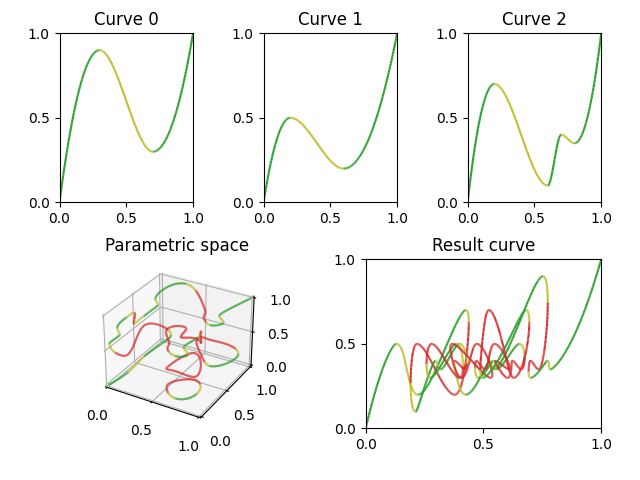
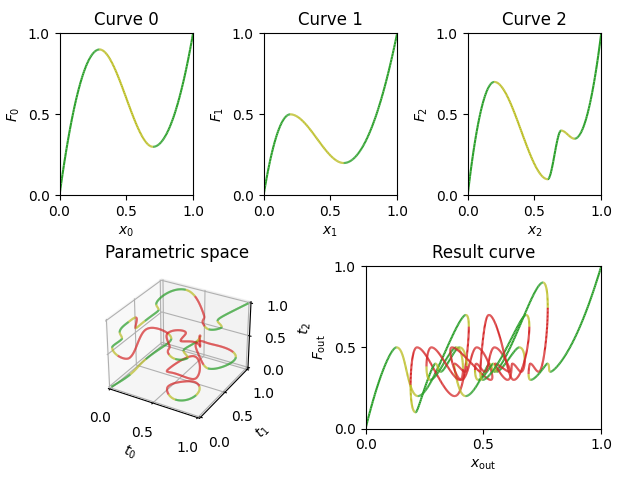
Better stability figures

diff --git a/src/curveCoupling/utils/defaultPlots.py b/src/curveCoupling/utils/defaultPlots.py
@@ -100,7 +100,7 @@ def plotResults_stability(data: List[np.ndarray],
         axs.append(fig.add_subplot(gs[1, :numCurves]))
     elif numCurves == 3:
         axs.append(fig.add_subplot(gs[1, :numCurves], projection='3d'))
-    fig.tight_layout(pad=2, h_pad=2, w_pad=2)
+    fig.tight_layout(pad=2, h_pad=3, w_pad=2)
 
     for i, (d,s) in enumerate(zip(data,data_stability)):
         plot_stability(axs[i],d,s)
@@ -110,9 +110,10 @@ def plotResults_stability(data: List[np.ndarray],
         
         axs[i].set_xlim(range_d[0])
         axs[i].set_ylim(range_d[1])
-        
         axs[i].xaxis.set_major_locator(ticker.LinearLocator(3))
         axs[i].yaxis.set_major_locator(ticker.LinearLocator(3))
+        axs[i].set_xlabel("$x_"+str(i)+"$")
+        axs[i].set_ylabel("$F_"+str(i)+"$")
 
     min_res = np.min([np.min(res, axis=0) for res in res_lst], axis=0)
     max_res = np.max([np.max(res, axis=0) for res in res_lst], axis=0)
@@ -125,12 +126,15 @@ def plotResults_stability(data: List[np.ndarray],
     if numCurves == 3:
         axs[-1].set_zlim(range_res[2])
         axs[-1].zaxis.set_major_locator(ticker.LinearLocator(3))
+        axs[-1].set_zlabel("$t_2$")
 
     axs[-1].set_title("Parametric space")
     axs[-1].set_xlim(range_res[0])
     axs[-1].set_ylim(range_res[1])
     axs[-1].xaxis.set_major_locator(ticker.LinearLocator(3))
     axs[-1].yaxis.set_major_locator(ticker.LinearLocator(3))
+    axs[-1].set_xlabel("$t_0$")
+    axs[-1].set_ylabel("$t_1$")
 
     for out, s in zip(out_lst, out_stability_lst):
         plot_stability(axs[-2],out,s)
@@ -144,6 +148,8 @@ def plotResults_stability(data: List[np.ndarray],
     axs[-2].set_ylim(range_out[1])
     axs[-2].xaxis.set_major_locator(ticker.LinearLocator(3))
     axs[-2].yaxis.set_major_locator(ticker.LinearLocator(3))
+    axs[-2].set_xlabel("$x_\mathrm{out}$")
+    axs[-2].set_ylabel("$F_\mathrm{out}$")
     plt.show(block=False)
     return fig, axs
 
@@ -151,7 +157,6 @@ def plot_stability(ax, data, stability):
     custom_cmap = mcolors.LinearSegmentedColormap.from_list("custom_cmap", ["tab:red", "tab:olive", "tab:green"])
     norm = mcolors.Normalize(vmin=-1, vmax=1)  # You can adjust vmin and vmax as needed
     nDims = data.shape[1]
-    print(nDims)
     if nDims == 2:
         colored_line(ax, stability, data[:, 0], data[:, 1], norm=norm, cmap=custom_cmap)
     elif nDims == 3:

diff --git a/tests/Test_stabilityAnalysis_single.py b/tests/Test_stabilityAnalysis_single.py
@@ -10,11 +10,14 @@ eigen = getEigenVals(data)
 stability = eigen2stability(eigen)
 
 ax = plt.subplot()
-
+ax.plot(0, 0, color="tab:green", label="Stable")
+ax.plot(0, 0, color="tab:olive", label="Cond.stable")
+ax.plot(0, 0, color="tab:red"  , label="Unstable")
 plot_stability(ax,data,stability)
-plt.show(block=False)
 ax.set_xlabel("Displacement")
 ax.set_ylabel("Force")
+ax.legend(loc="lower right")
+plt.show(block=False)
 
 name = "curveCoupling_Stability_Single"
 folder = "assets\\"